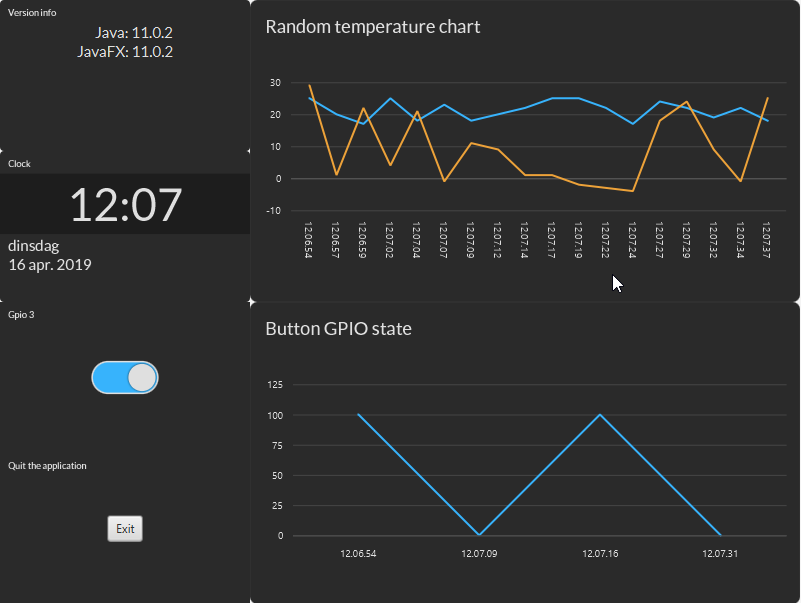
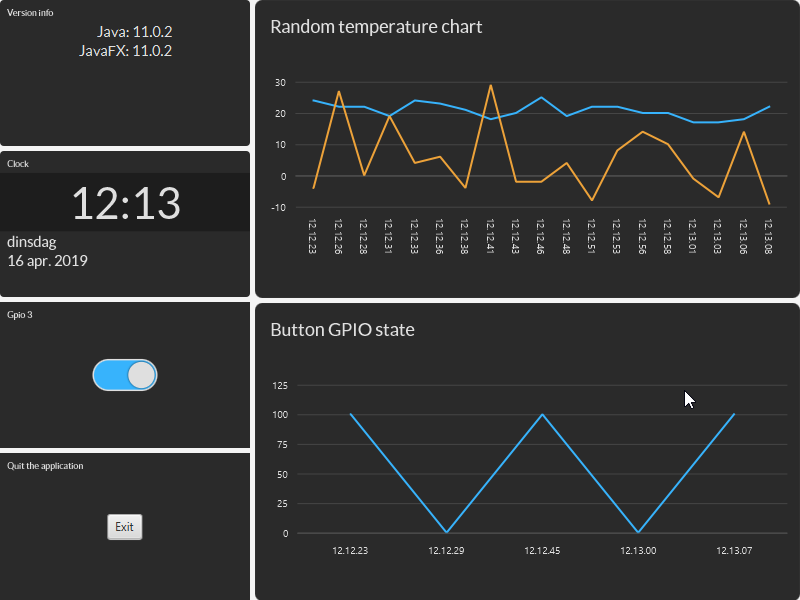
Whitespacing between tiles

diff --git a/src/main/java/be/webtechie/FxScreen.java b/src/main/java/be/webtechie/FxScreen.java
@@ -161,10 +161,17 @@ public class FxScreen {
                 .series(this.seriesButton)
                 .build();
 
-        var tiles = new VBox(textTile, clockTile, ledSwitchTile, exitTile); // mapTile
-        tiles.setMinWidth(250);
+        var tilesColumn1 = new VBox(textTile, clockTile, ledSwitchTile, exitTile);
+        tilesColumn1.setMinWidth(250);
+        tilesColumn1.setSpacing(5);
 
-        return new HBox(tiles, new VBox(tempartureLineChartTile, buttonLineChartTile)); // webView
+        var tilesColumn2 = new VBox(tempartureLineChartTile, buttonLineChartTile);
+        tilesColumn2.setSpacing(5);
+
+        var tilesAll = new HBox(tilesColumn1, tilesColumn2);
+        tilesAll.setSpacing(5);
+
+        return tilesAll;
     }
 
     /**
